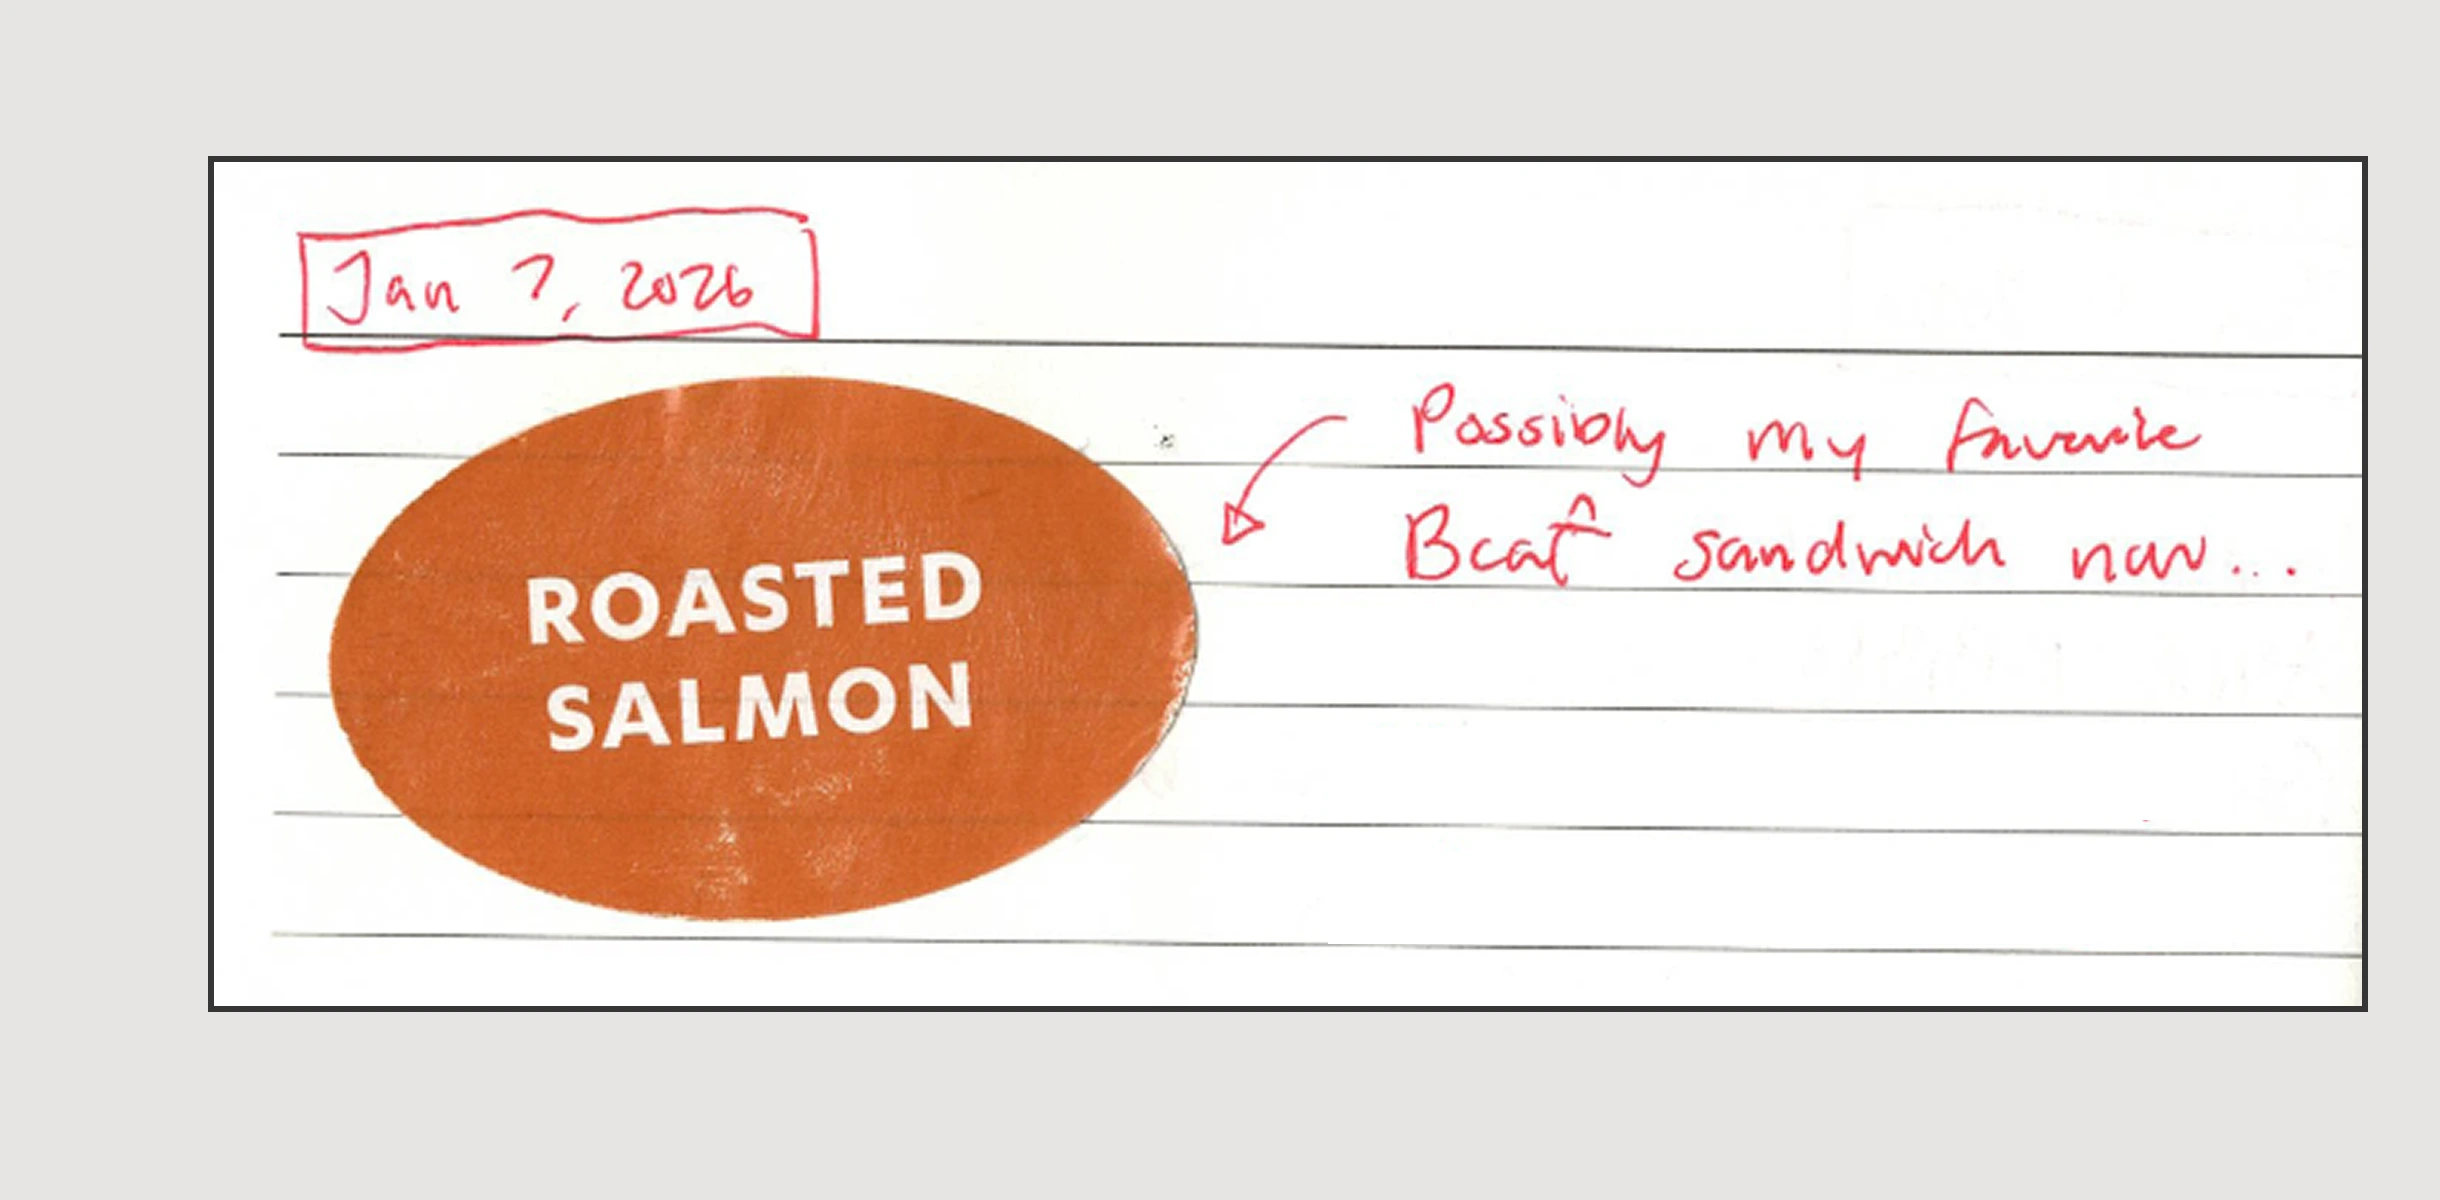
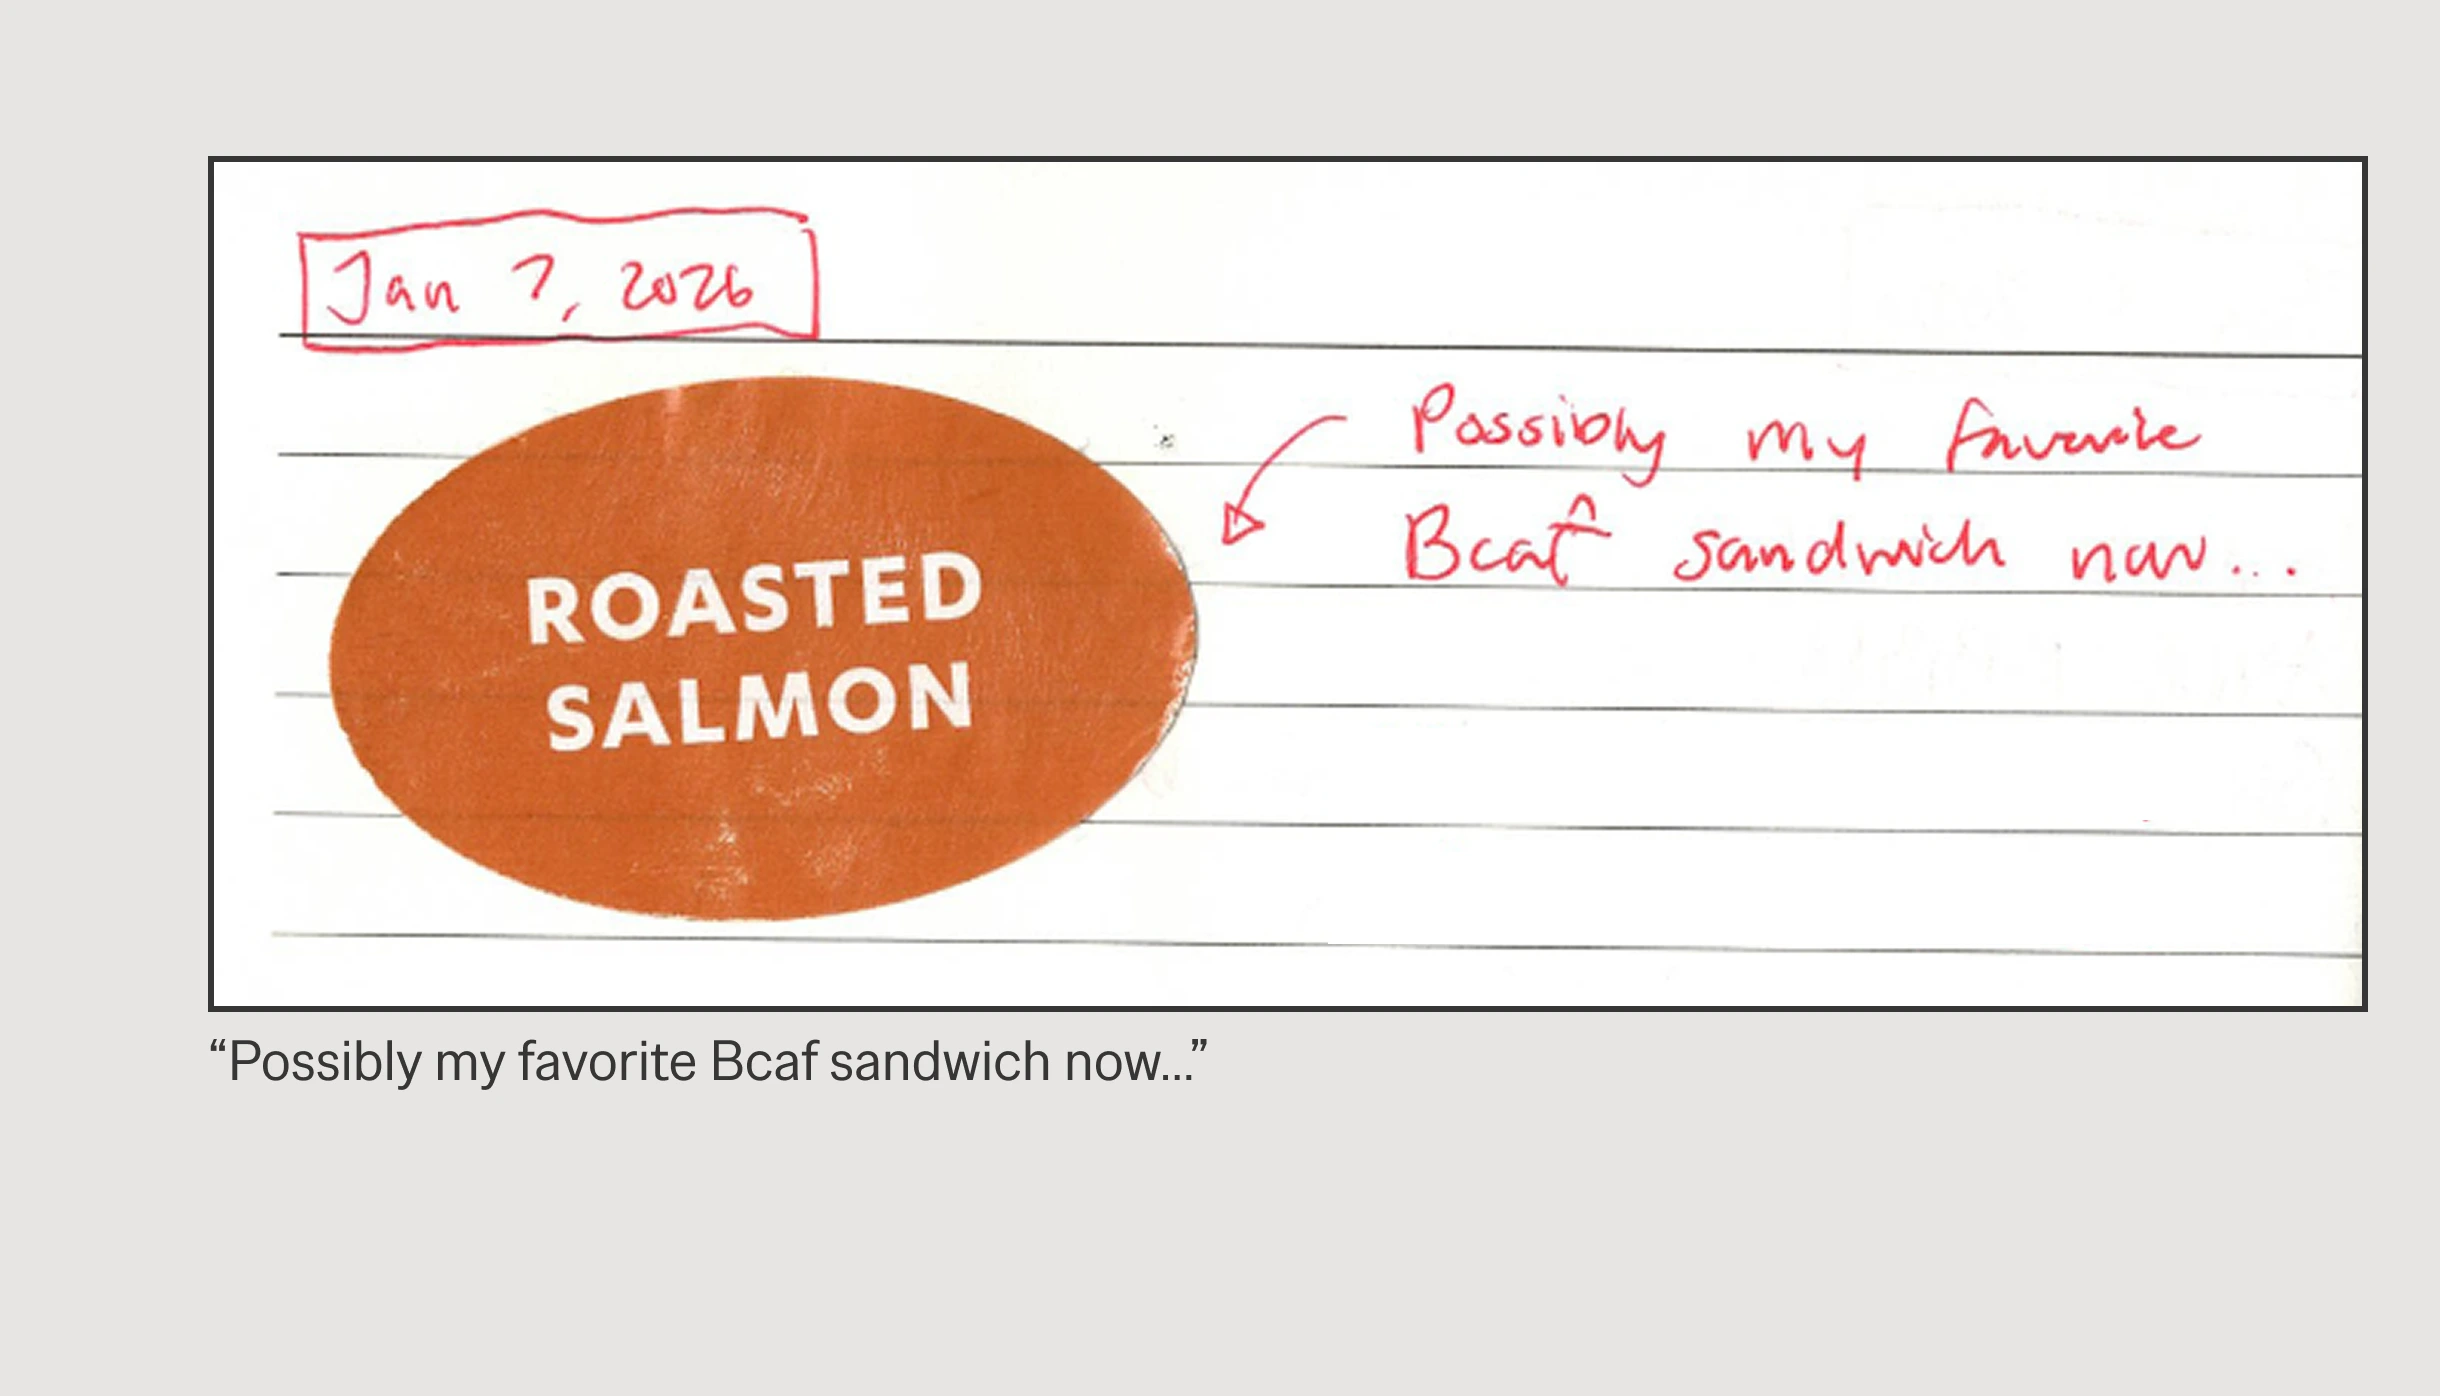
Captions added to scrolling images and 2 scans

Changed region(s): [[0.0623, 0.0925, 0.9656, 0.8633]]

diff --git a/index.html b/index.html
@@ -90,6 +90,7 @@ I’d say my take-out choices mostly came down to personal preference. I know wh
         I know the data’s a bit off; some take-out orders are sticker-less, like acai bowls from Bruin Cafe or gelato from Cafe 1919. Still, I’d say the sticker distribution reflects my overall preferences. For example, fewer visits to Cafe 1919 make sense, given how rich the paninis are. I received a duplicate panini sticker once, so the total visit count is actually one less:
     </div>
     <img class="graphic_image img_border" src="graphics/JournalScan.webp">
+    <div class="subtext" style="text-align: center; margin-top: 3px;">"I got 2 stickers for 1 sandwich"</div>
     <div class="writing">
         Beyond preferences between dining locations, a location’s stickers over time reflect other choices in my dining history.
     </div>
@@ -162,6 +163,7 @@ My journal provides a timeline of changing allegiances:
 Enough of Sandwich Olympics now. Reflecting on my journaling efforts overall, I usually just associated the habit with collecting dining stickers.
     </div>
     <img class="graphic_image img_border" src="graphics/JournalScan2.webp">
+    <div class="subtext" style="text-align: center; margin-top: 3px;">"Glad I've collected stickers / It holds me accountable to journaling regularly"</div>
     <div class="writing">
 But after compiling the data, I found that I didn’t always need a dining sticker to journal.
 
